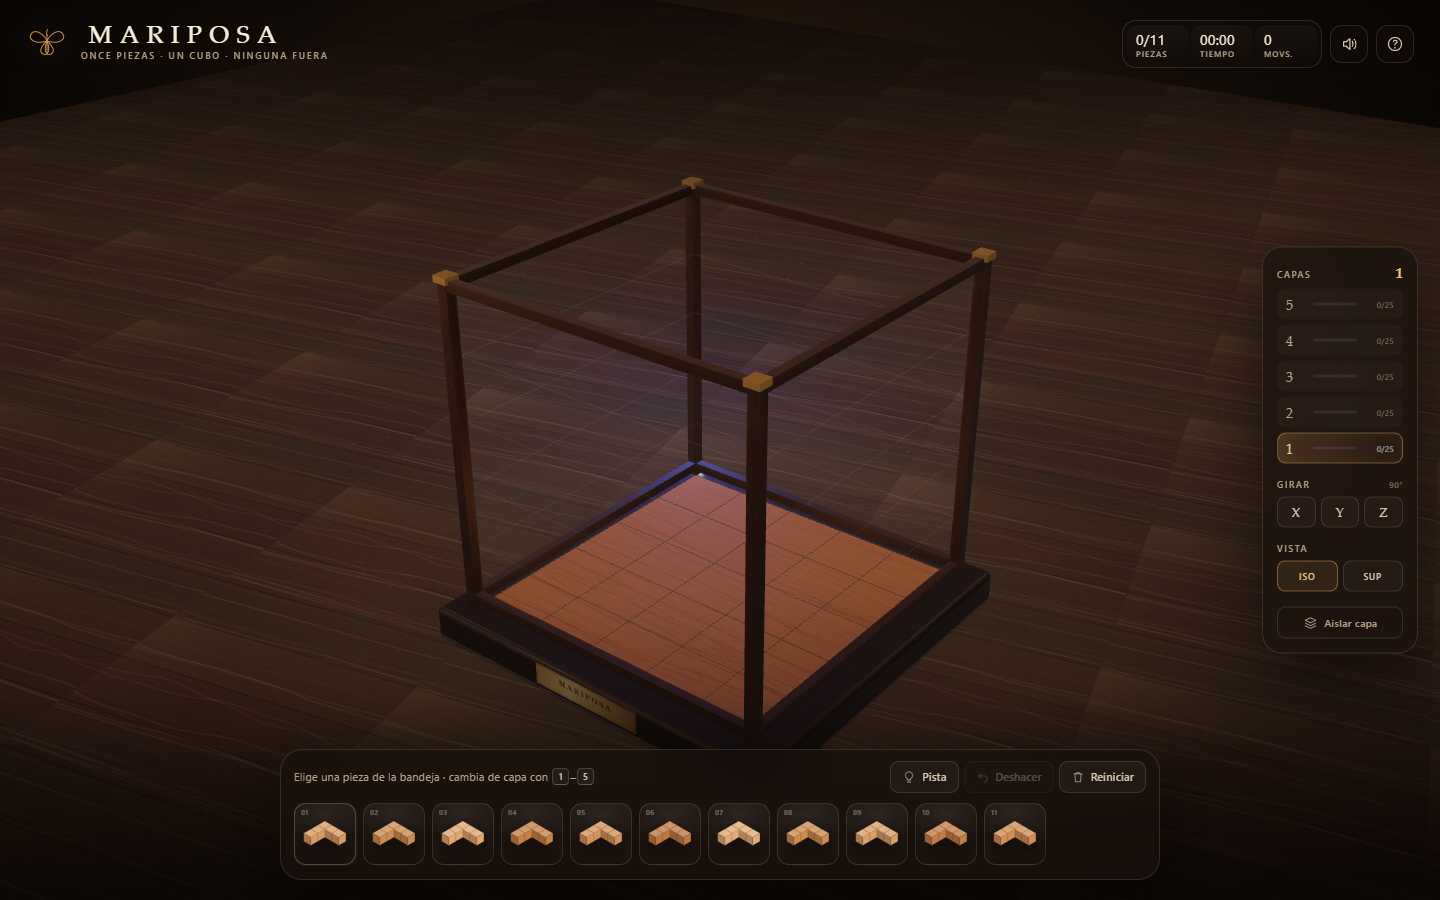
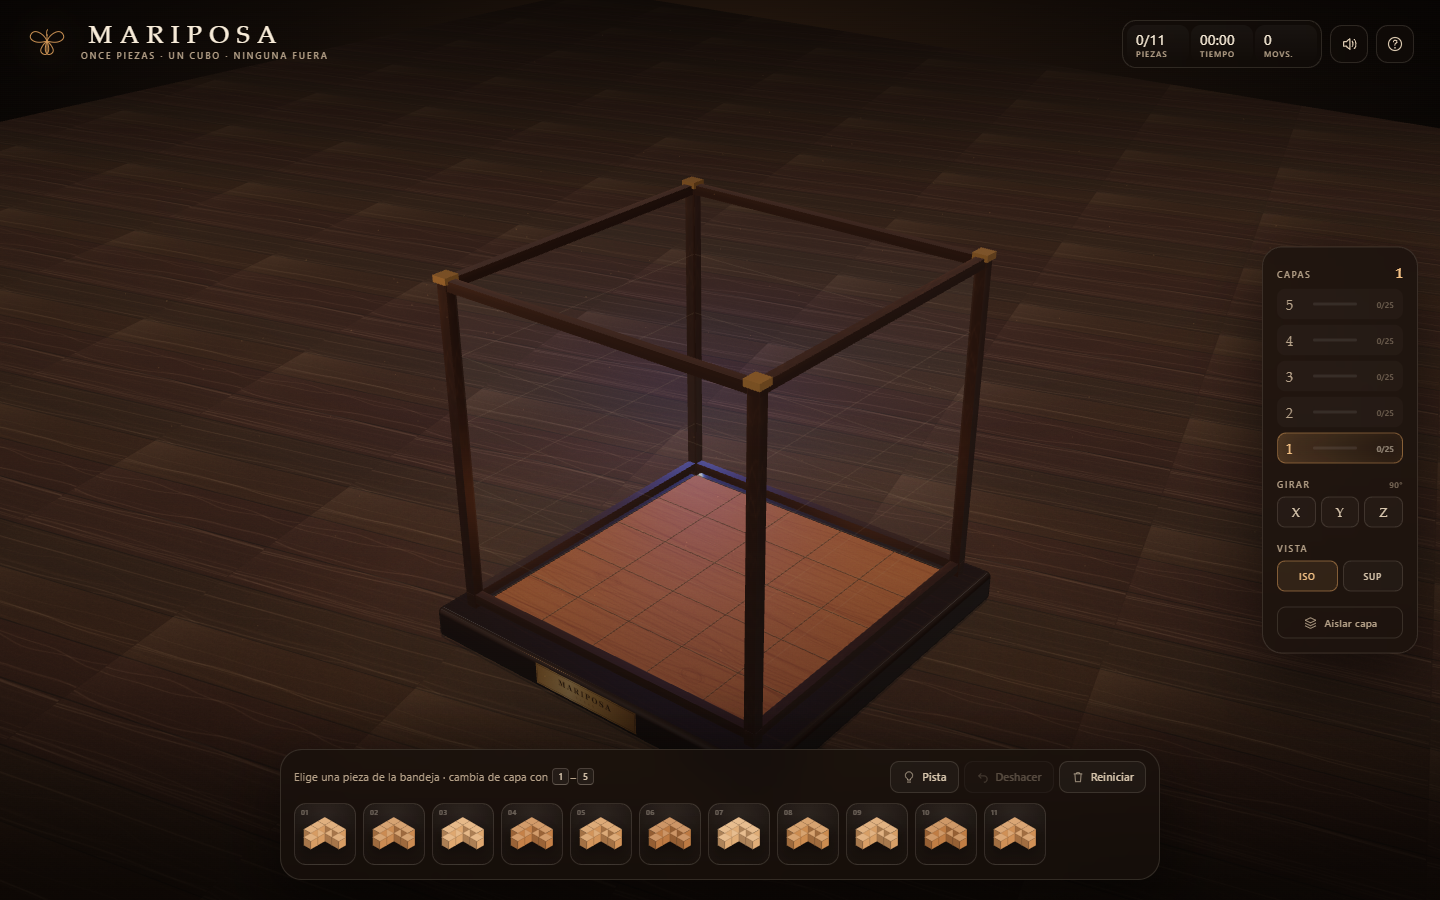
changes on piece size

Changed region(s): [[0.1875, 0.9022, 0.7188, 0.9644]]

diff --git a/src/scene/world.js b/src/scene/world.js
@@ -17,58 +17,67 @@ export const gridToWorld = (x, y, z) =>
   new THREE.Vector3(x - HALF, y, z - HALF);
 
 const cellKey = (c) => c.join(',');
-const DIRECTIONS = [
-  [1, 0, 0], [-1, 0, 0],
-  [0, 1, 0], [0, -1, 0],
-  [0, 0, 1], [0, 0, -1],
-];
 
 /**
- * La pieza se dibuja como dos barras de madera unidas en ángulo recto.
- * A partir de las celdas se localiza la esquina y se reconstruyen las barras,
- * así funciona en cualquiera de las 12 orientaciones.
+ * La pieza es una L plana de 5 celdas extruida 2 celdas de grosor, así que se
+ * dibuja como dos barras de madera de 3 × 2 unidas en ángulo recto. Se
+ * reconstruyen las barras desde las celdas para cualquiera de las 12
+ * orientaciones: se detecta el eje de grosor, se proyecta la L y se busca su
+ * esquina.
  */
 function armBoxes(cells) {
-  const set = new Set(cells.map(cellKey));
-  let corner = null;
-  let cornerDirs = null;
+  const min = [0, 1, 2].map((a) => Math.min(...cells.map((c) => c[a])));
+  const max = [0, 1, 2].map((a) => Math.max(...cells.map((c) => c[a])));
+  const size = max.map((v, a) => v - min[a] + 1);
 
-  for (const cell of cells) {
-    const neighbours = DIRECTIONS.filter((d) =>
-      set.has(cellKey([cell[0] + d[0], cell[1] + d[1], cell[2] + d[2]])),
-    );
-    if (neighbours.length === 2) {
-      const axisA = neighbours[0].findIndex((v) => v !== 0);
-      const axisB = neighbours[1].findIndex((v) => v !== 0);
-      if (axisA !== axisB) {
-        corner = cell;
-        cornerDirs = neighbours;
-        break;
+  // El grosor es el único eje con extensión 2.
+  const thicknessAxis = size.findIndex((s) => s === 2);
+  const planeAxes = [0, 1, 2].filter((a) => a !== thicknessAxis);
+
+  if (thicknessAxis !== -1 && size.filter((s) => s === 2).length === 1) {
+    // Una celdas por columna del plano: las de la cara inferior del grosor.
+    const skeleton = cells.filter((c) => c[thicknessAxis] === min[thicknessAxis]);
+    const inPlane = new Set(skeleton.map(cellKey));
+
+    for (const cell of skeleton) {
+      const dirs = [];
+      for (const axis of planeAxes) {
+        for (const sign of [-1, 1]) {
+          const next = [...cell];
+          next[axis] += sign;
+          if (inPlane.has(cellKey(next))) {
+            dirs.push(next.map((v, i) => v - cell[i]));
+          }
+        }
+      }
+      const axisA = dirs[0]?.findIndex((v) => v !== 0);
+      const axisB = dirs[1]?.findIndex((v) => v !== 0);
+      if (dirs.length === 2 && axisA !== axisB) {
+        return dirs.map((dir) => {
+          const dirAxis = dir.findIndex((v) => v !== 0);
+          const center = [0, 0, 0];
+          const dims = [0, 0, 0];
+          for (let a = 0; a < 3; a += 1) {
+            if (a === dirAxis) {
+              const start = cell[a] + Math.min(0, dir[a] * 2);
+              dims[a] = 3;
+              center[a] = start + 1.5;
+            } else if (a === thicknessAxis) {
+              dims[a] = 2;
+              center[a] = min[a] + 1;
+            } else {
+              dims[a] = 1;
+              center[a] = cell[a] + 0.5;
+            }
+          }
+          return { center, size: dims };
+        });
       }
     }
   }
 
-  if (!corner) {
-    // Respaldo improbable: una caja por celda.
-    return cells.map((c) => ({ center: [c[0] + 0.5, c[1] + 0.5, c[2] + 0.5], size: [1, 1, 1] }));
-  }
-
-  return cornerDirs.map((dir) => {
-    const arm = [corner];
-    for (let step = 1; step <= 2; step += 1) {
-      arm.push([corner[0] + dir[0] * step, corner[1] + dir[1] * step, corner[2] + dir[2] * step]);
-    }
-    const min = [0, 0, 0];
-    const max = [0, 0, 0];
-    for (let a = 0; a < 3; a += 1) {
-      min[a] = Math.min(...arm.map((c) => c[a]));
-      max[a] = Math.max(...arm.map((c) => c[a]));
-    }
-    return {
-      center: [min[0] + (max[0] - min[0] + 1) / 2, min[1] + (max[1] - min[1] + 1) / 2, min[2] + (max[2] - min[2] + 1) / 2],
-      size: [max[0] - min[0] + 1, max[1] - min[1] + 1, max[2] - min[2] + 1],
-    };
-  });
+  // Respaldo improbable: una caja por celda.
+  return cells.map((c) => ({ center: [c[0] + 0.5, c[1] + 0.5, c[2] + 0.5], size: [1, 1, 1] }));
 }
 
 function buildPieceObject(orient, material, { ghost = false } = {}) {

diff --git a/src/game/solver.js b/src/game/solver.js
@@ -1,28 +1,27 @@
 import { ORIENTATIONS, ORIENTATION_BY_KEY } from './shape.js';
 
-const FLAT = ORIENTATIONS.filter((o) => o.size[1] === 1 && o.cells.length === 5);
-
-const BASE_KEY = '0,0,0|0,0,1|0,0,2|1,0,0|2,0,0';
+const FLAT = ORIENTATIONS.filter((o) => o.size[1] === 2 && o.cells.length === 10);
 
 /**
- * Receta densa: 4 piezas planas por capa en las dos primeras capas y 3 en la
- * tercera. Deja un hueco de 5 celdas por capa (no existe teselado de 5 Ls en
- * un cuadrado de 5×5), pero es mucho más bonito que amontonar piezas.
+ * Receta densa: 11 piezas de 10 cubos caben en el cubo de 5×5×5 dejando 15
+ * celdas libres. Capas ocupadas: 19 / 25 / 22 / 21 / 23.
+ * Las piezas son intercambiables, así que la receta solo fija posiciones.
  */
 const RECIPE = [
-  { key: BASE_KEY, x: 1, y: 0, z: 0 },
-  { key: '0,0,0|0,0,1|0,0,2|1,0,2|2,0,2', x: 0, y: 0, z: 1 },
-  { key: '0,0,2|1,0,2|2,0,0|2,0,1|2,0,2', x: 1, y: 0, z: 2 },
-  { key: '0,0,0|1,0,0|2,0,0|2,0,1|2,0,2', x: 2, y: 0, z: 1 },
+  { key: '0,0,0|0,0,1|0,0,2|0,1,2|0,2,2|1,0,0|1,0,1|1,0,2|1,1,2|1,2,2', x: 3, y: 0, z: 0 },
+  { key: '0,0,0|0,1,0|0,2,0|0,2,1|0,2,2|1,0,0|1,1,0|1,2,0|1,2,1|1,2,2', x: 0, y: 0, z: 1 },
+  { key: '0,0,0|0,0,1|0,0,2|0,1,0|0,1,1|0,1,2|1,0,0|1,1,0|2,0,0|2,1,0', x: 0, y: 0, z: 2 },
+  { key: '0,0,0|0,0,1|1,0,0|1,0,1|2,0,0|2,0,1|2,1,0|2,1,1|2,2,0|2,2,1', x: 2, y: 0, z: 3 },
 
-  { key: BASE_KEY, x: 1, y: 1, z: 0 },
-  { key: '0,0,0|0,0,1|0,0,2|1,0,2|2,0,2', x: 0, y: 1, z: 1 },
-  { key: '0,0,2|1,0,2|2,0,0|2,0,1|2,0,2', x: 1, y: 1, z: 2 },
-  { key: '0,0,0|1,0,0|2,0,0|2,0,1|2,0,2', x: 2, y: 1, z: 1 },
+  { key: '0,0,0|0,1,0|0,2,0|0,2,1|0,2,2|1,0,0|1,1,0|1,2,0|1,2,1|1,2,2', x: 0, y: 1, z: 0 },
+  { key: '0,0,0|0,0,1|0,1,0|0,1,1|0,2,0|0,2,1|1,0,0|1,0,1|2,0,0|2,0,1', x: 2, y: 1, z: 0 },
+  { key: '0,0,0|0,0,1|1,0,0|1,0,1|2,0,0|2,0,1|2,1,0|2,1,1|2,2,0|2,2,1', x: 1, y: 1, z: 3 },
 
-  { key: BASE_KEY, x: 0, y: 2, z: 0 },
-  { key: BASE_KEY, x: 1, y: 2, z: 1 },
-  { key: BASE_KEY, x: 2, y: 2, z: 2 },
+  { key: '0,2,0|0,2,1|1,2,0|1,2,1|2,0,0|2,0,1|2,1,0|2,1,1|2,2,0|2,2,1', x: 1, y: 2, z: 0 },
+  { key: '0,0,2|0,1,2|0,2,0|0,2,1|0,2,2|1,0,2|1,1,2|1,2,0|1,2,1|1,2,2', x: 0, y: 2, z: 2 },
+  { key: '0,0,0|0,0,1|0,1,0|0,1,1|0,2,0|0,2,1|1,2,0|1,2,1|2,2,0|2,2,1', x: 2, y: 2, z: 3 },
+
+  { key: '0,0,2|0,1,2|1,0,2|1,1,2|2,0,0|2,0,1|2,0,2|2,1,0|2,1,1|2,1,2', x: 2, y: 3, z: 0 },
 ];
 
 function firstRecipeSpot(board) {

diff --git a/index.html b/index.html
@@ -191,7 +191,7 @@
         </button>
       </div>
       <div class="sheet-body">
-        <p>El cubo mide <strong>5 × 5 × 5</strong> y tienes <strong>once piezas en L</strong>. Cada pieza ocupa <strong>5 cubos</strong> (dos brazos de 3 unidos en la esquina).</p>
+        <p>El cubo mide <strong>5 × 5 × 5</strong> y tienes <strong>once piezas en L</strong>. Cada pieza ocupa <strong>10 cubos</strong> (dos brazos de 3 con 2 de grosor, unidos en la esquina).</p>
         <ol class="steps">
           <li><span>01</span>Elige una pieza de la bandeja inferior.</li>
           <li><span>02</span>Mueve el puntero sobre el cubo y toca para colocarla. La pieza fantasma verde indica que cabe; la roja, que se solapa.</li>

diff --git a/src/game/shape.js b/src/game/shape.js
@@ -1,8 +1,9 @@
 /**
  * Geometría del puzzle "Mariposa".
  *
- * Cada pieza es una L de 5 cubos: dos barras de 3 unidades unidas en ángulo
- * recto y compartiendo la esquina (3 + 3 - 1 = 5). Cabe en una caja de 3×3×1.
+ * Cada pieza es una L de 5 celdas extruida dos veces en altura: dos barras de
+ * 3 × 2 unidas en ángulo recto y compartiendo la esquina. Ocupa 10 cubos
+ * (3 + 3 - 1 = 5 celdas × 2 de grosor) y cabe en una caja de 3×2×3.
  */
 
 export const CUBE = 5;
@@ -12,6 +13,8 @@ export const PIECE_COUNT = 11;
 const BASE_CELLS = [
   [0, 0, 0], [1, 0, 0], [2, 0, 0],
   [0, 0, 1], [0, 0, 2],
+  [0, 1, 0], [1, 1, 0], [2, 1, 0],
+  [0, 1, 1], [0, 1, 2],
 ];
 
 const keyOf = (cells) =>

diff --git a/README.md b/README.md
@@ -8,10 +8,10 @@ Mariposa es un juego web en 3D: hay un cubo de madera de 5 × 5 × 5 y once piez
 en L. La meta es acomodar las once piezas dentro del cubo, sin que se solapen y
 sin que ninguna sobresalga.
 
-La idea nace de las fotos del cubo y de la pieza en L que compartiste. La
-interpretación implementada es la que confirmaste: cada pieza ocupa **5 cubos**
-(dos brazos de 3 unidos en ángulo recto, compartiendo la esquina) y puede girar
-en las tres dimensiones.
+La idea nace de las fotos del cubo y de la pieza en L que compartiste. Cada
+pieza ocupa **10 cubos**: una L de 5 celdas (dos brazos de 3 unidos en ángulo
+recto, compartiendo la esquina) con **2 celdas de grosor**. Puede girar en las
+tres dimensiones.
 
 ---
 
@@ -105,10 +105,10 @@ $env:CHROME_PATH="C:\ruta\a\chrome.exe"; npm run e2e
 
 `npm test` comprueba, entre otras cosas, que:
 
-- la pieza tiene 5 cubos y genera **12 orientaciones únicas**;
+- la pieza tiene 10 cubos (2 de grosor) y genera **12 orientaciones únicas**;
 - las cuatro rotaciones de 90° vuelven a la identidad;
 - el tablero detecta solapes y salidas del cubo;
-- la receta de pistas coloca las **once piezas** sin solapamientos (55 celdas).
+- la receta de pistas coloca las **once piezas** sin solapamientos (110 celdas).
 
 ---
 
@@ -133,24 +133,22 @@ $env:CHROME_PATH="C:\ruta\a\chrome.exe"; npm run e2e
 
 ### Geometría de la pieza
 
+Vista superior de la L (5 celdas):
+
 ```
-(0,0,0) (1,0,0) (2,0,0)
-(0,0,1)
-(0,0,2)
+(0,0) (1,0) (2,0)
+(0,1)
+(0,2)
 ```
 
-Es una L plana de 5 cubos. Al rotarla en 3D se obtienen 12 orientaciones
-distintas (no 24, porque la pieza tiene una simetría de 180° sobre su diagonal).
+Cada celda se extruye 2 unidades en altura, así que la pieza ocupa 10 cubos y
+cabe en una caja de **3 × 2 × 3** (ancho 3, alto 2, fondo 3). Al rotarla en 3D se
+obtienen 12 orientaciones distintas (no 24, porque la pieza conserva la simetría
+de 180° sobre su diagonal).
 
-La receta de pistas usa **4 piezas planas por capa** en las dos primeras capas y
-**3 en la tercera**. No es posible teselar un cuadrado de 5 × 5 con cinco L de
-5 cubos (argumento de coloreado), así que 4 por capa es el máximo práctico y deja
-un hueco de 5 celdas por capa. Aun así, las once piezas caben en solo tres capas,
+Las once piezas ocupan 110 de las 125 celdas del cubo. La receta de pistas deja
+15 celdas libres y reparte la ocupación por capas en **19 / 25 / 22 / 21 / 23**,
 que es lo que muestra la pantalla de victoria.
-
-> Si prefieres la variante de **4 cubos (3 × 2)** en lugar de 5, cambia
-> `BASE_CELLS` en `src/game/shape.js` y ajusta la receta de `solver.js`. El resto
-> del juego se adapta solo (orientaciones, validación y pistas).
 
 ---
 
